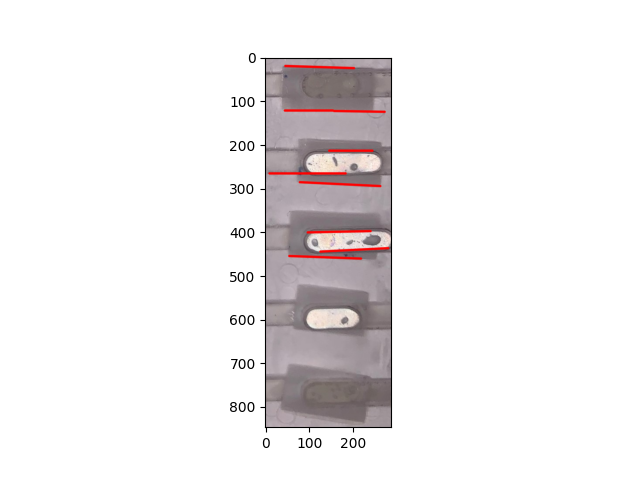
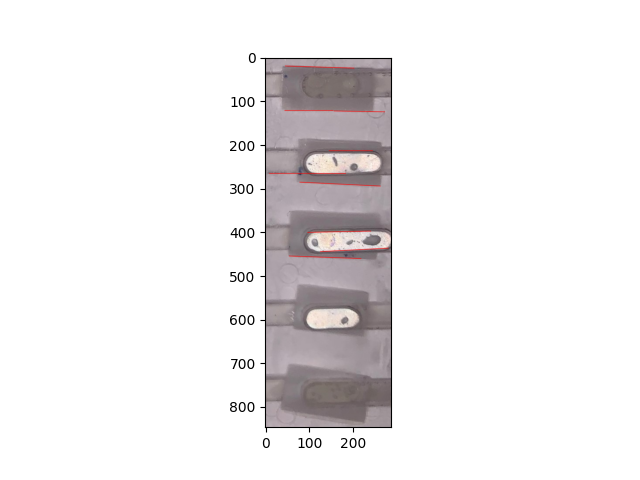
updated the 'lined1' images in the 'images_postprocessing' folder due to new line parameters

diff --git a/main.py b/main.py
@@ -97,11 +97,11 @@ def image_enhance(): # enhance the coloration of the images via CLAHE (Contrast 
 Call Functions:
 Maybe create seperate function or file to run the functions below
 '''
-show_image()
-show_image_gray()
+#show_image()
+#show_image_gray()
 #hsv_filter()
 #black_out()
-#edges_lined()
+edges_lined()
 #image_enhance()
 
 

diff --git a/variables.py b/variables.py
@@ -4,7 +4,7 @@ import numpy as np
 '''
 Image selection:
 '''
-image = cv2.imread('images/S2_Kovacs_10000Z.jpeg', cv2.IMREAD_COLOR) # :Workplace relative path
+image = cv2.imread('images/0H_10000Z.jpeg', cv2.IMREAD_COLOR) # :Workplace relative path
 image = cv2.cvtColor(image,cv2.COLOR_BGR2RGB) # convert to rgb
 
 '''
